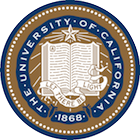
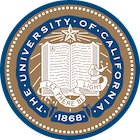
left align nav style

diff --git a/css/style.css b/css/style.css
@@ -18,21 +18,48 @@ html, body {
   background-color: #7a7a7a; }
 
 body {
-  background-image: url(../img/wild_oliva.png); }
+  background-image: url(../img/wild_oliva.png);
+  font-family: 'Helvetica Neue'; }
 
 /* Navigation Bar */
 header .home {
-  text-align: center;
-  font-size: 1.3em;
-  padding: 10px; }
+  padding-top: 40px;
+  padding-left: 200px;
+  padding-bottom: 40px; }
+  header .home .team {
+    padding-top: 15px;
+    font-size: 1.7em; }
   header .home a {
     color: white;
-    font-weight: bold;
     text-decoration: none; }
   header .home .ucb {
-    font-size: .85em;
+    font-size: 1em;
     font-weight: normal;
     display: block; }
+  header .home .seal {
+    width: 80px;
+    height: 80px;
+    padding-right: 10px;
+    float: left;
+    position: relative;
+    top: -16px; }
+header .nav-2 {
+  width: 100%;
+  background-color: #939393;
+  text-align: center;
+  padding: 1px 0px;
+  margin-bottom: 25px; }
+  header .nav-2 ul {
+    list-style-type: none; }
+    header .nav-2 ul li {
+      display: inline;
+      padding: 10px 40px; }
+  header .nav-2 a {
+    font-size: 1.1em;
+    color: #2d2d2d;
+    text-decoration: none; }
+    header .nav-2 a:hover {
+      color: #606060; }
 header .nav {
   padding-bottom: 15px;
   text-align: center; }

diff --git a/css/style.scss b/css/style.scss
@@ -23,25 +23,60 @@ html, body {
 
 body {
 	background-image: url(../img/wild_oliva.png);
+	font-family: 'Helvetica Neue';
 }
 
 /* Navigation Bar */
 header {
 	// Home Button
 	.home {
-		text-align: center;
-		font-size: 1.3em;
-		padding: 10px;
+		.team {
+			padding-top: 15px;
+			font-size: 1.7em;
+		}
+		padding-top: 40px;
+		padding-left: 200px;
+		padding-bottom: 40px;
 		a {
 			color: white;
-			font-weight: bold;
 			text-decoration: none;
 		}
 
 		.ucb {
-			font-size: .85em;
+			font-size: 1em;
 			font-weight: normal;
 			display: block;
+		}
+		.seal {
+			width: 80px;
+			height: 80px;
+			padding-right: 10px;
+			float: left;
+			position: relative;
+			top: -16px;
+		}
+	}
+
+	.nav-2 {
+		width: 100%;
+		background-color: lighten($steel_gray, 40%);
+		text-align: center;
+		padding: 1px 0px;
+		margin-bottom: 25px;
+		ul {
+			list-style-type: none;
+			li {
+				display: inline;
+				padding: 10px 40px;
+			}
+		}
+		a {
+			font-size: 1.1em;
+			color: $steel_gray;
+			text-decoration: none;
+			&:hover {
+				color: lighten($steel_gray, 20%);
+			}
 		}
 	}
 

diff --git a/index.html b/index.html
@@ -18,12 +18,13 @@
 		<header>
 			<div class="home">
 				<a href="#">
+					<img src="img/seal.png" alt="" class="seal">
 					<span class="ucb">UC Berkeley</span>
-					Steel Bridge Competition Team
+					<span class="team">Steel Bridge Competition Team</span>
 				</a>
 			</div>
 
-			<div class="nav">
+			<div class="nav-2">
 				<ul>
 					<li><a href="about.html" >About</a></li>
 					<li><a href="history.html">History</a></li>
